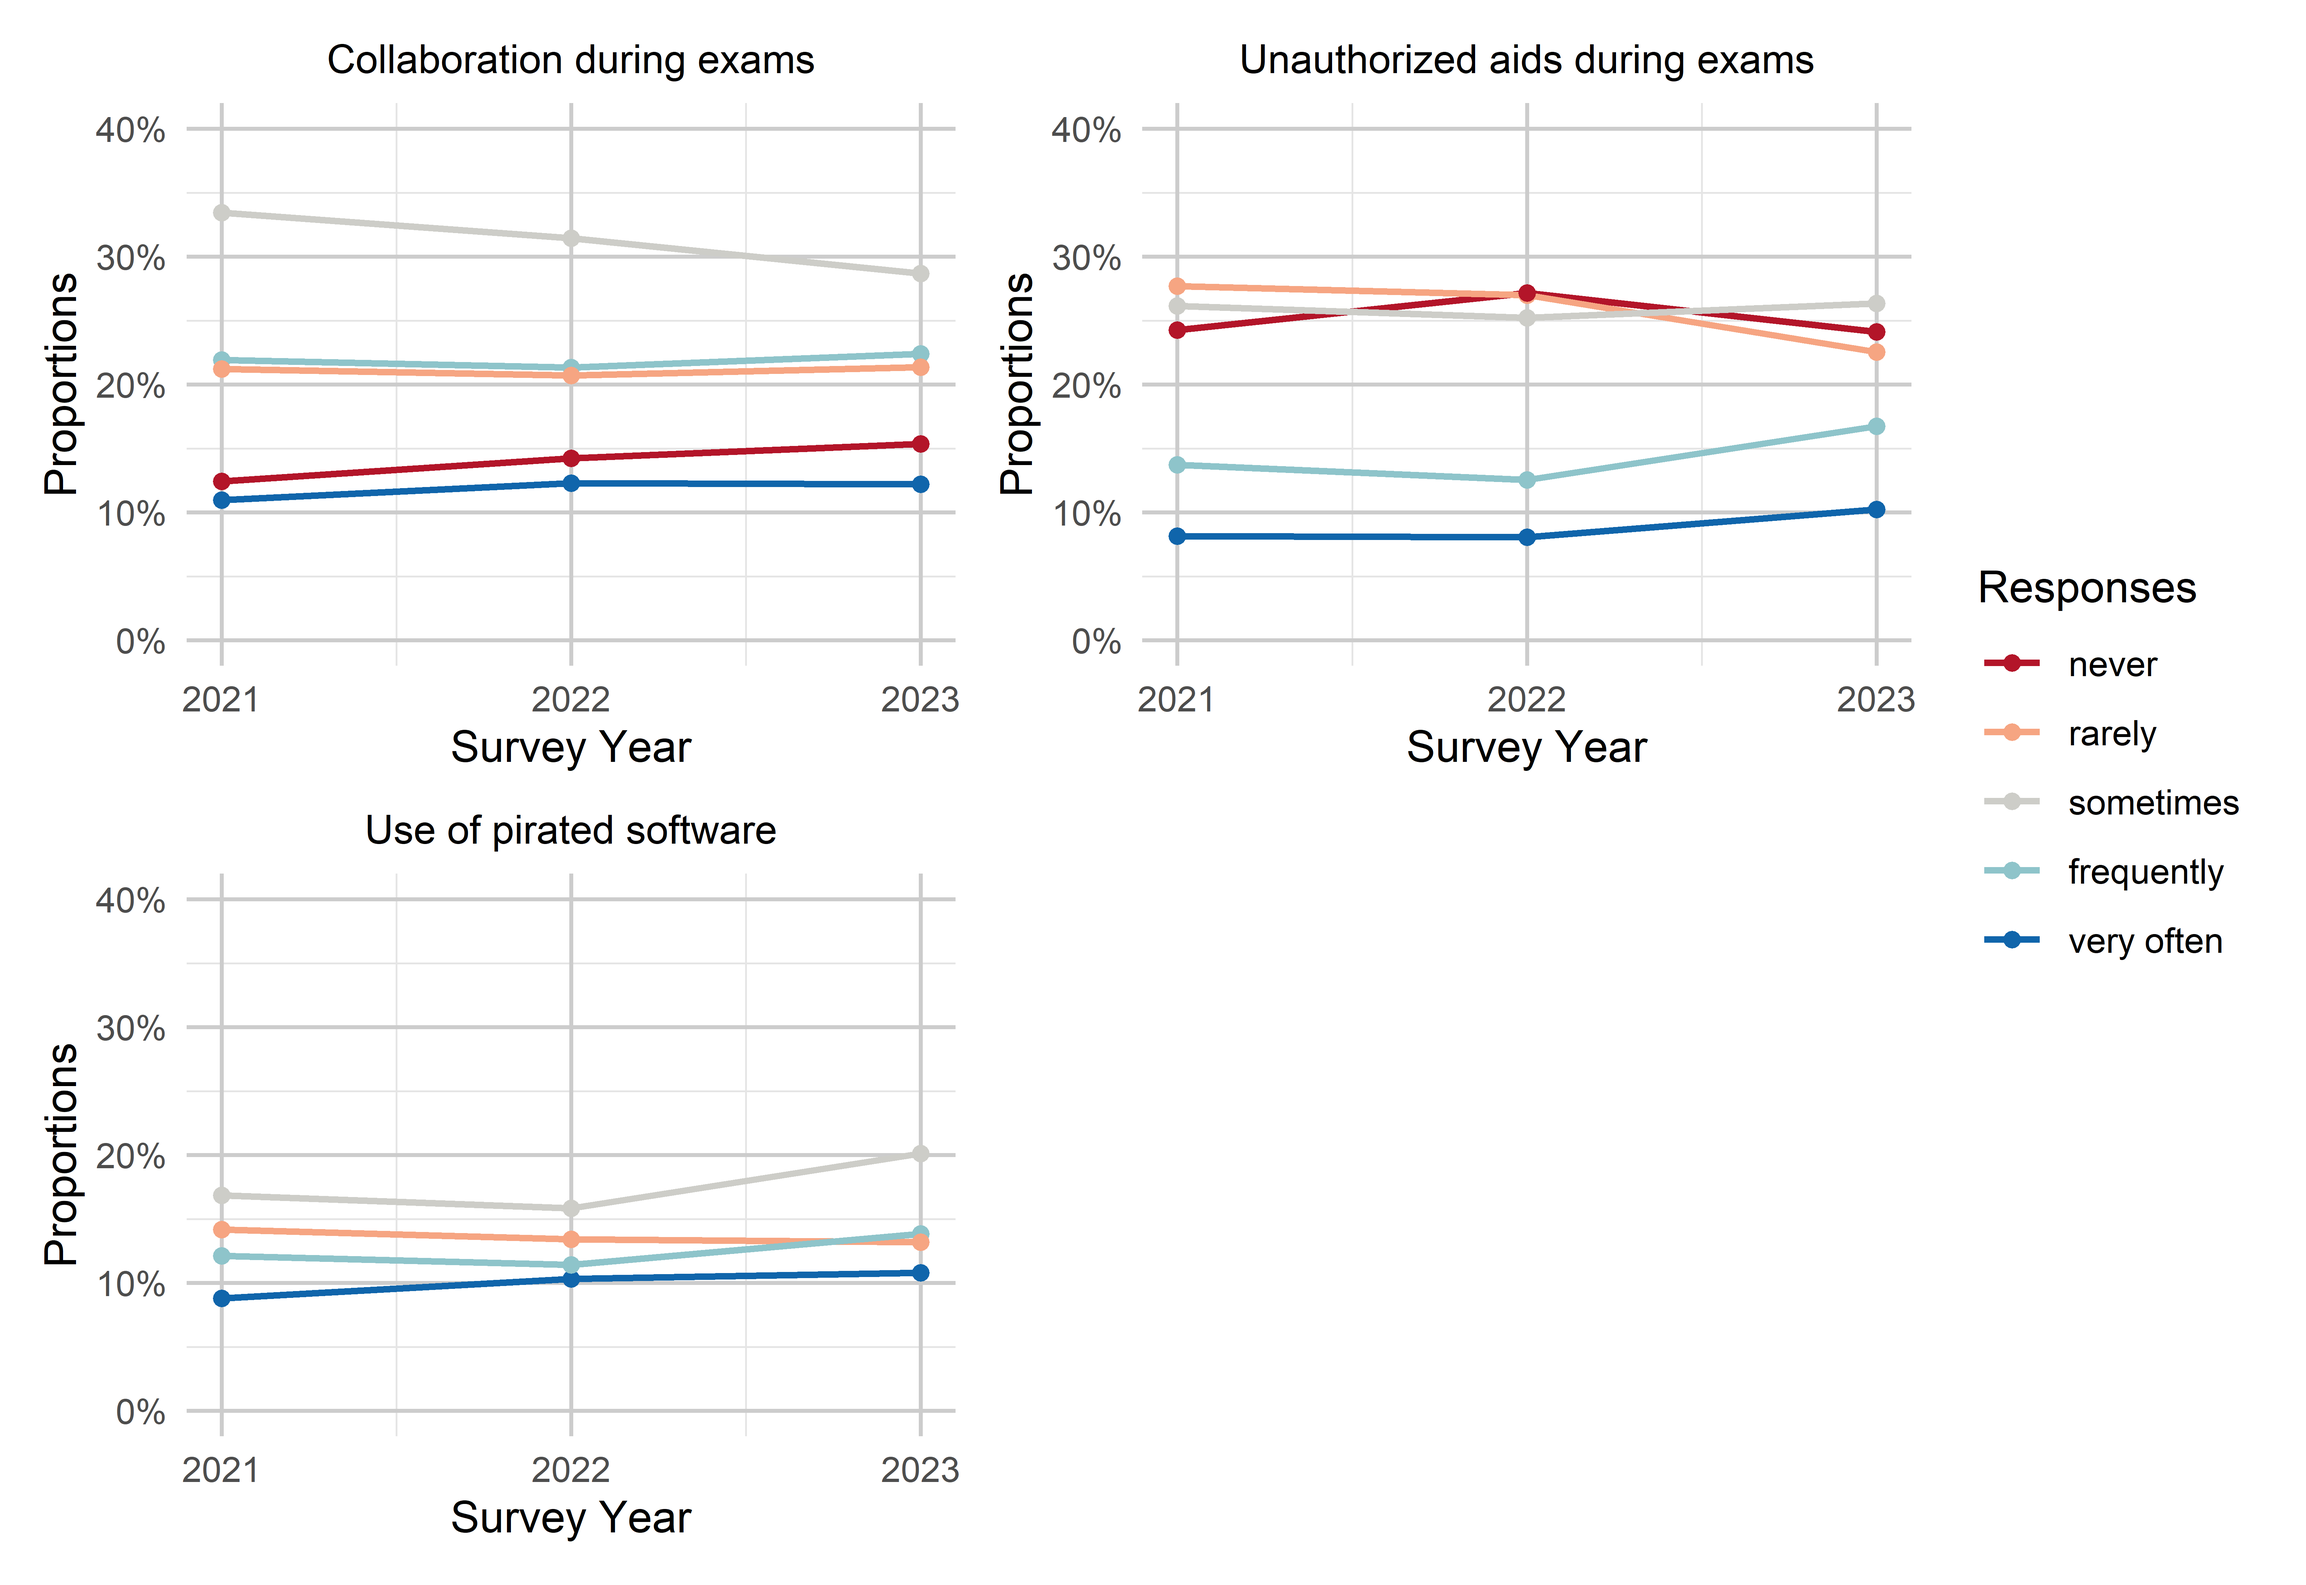
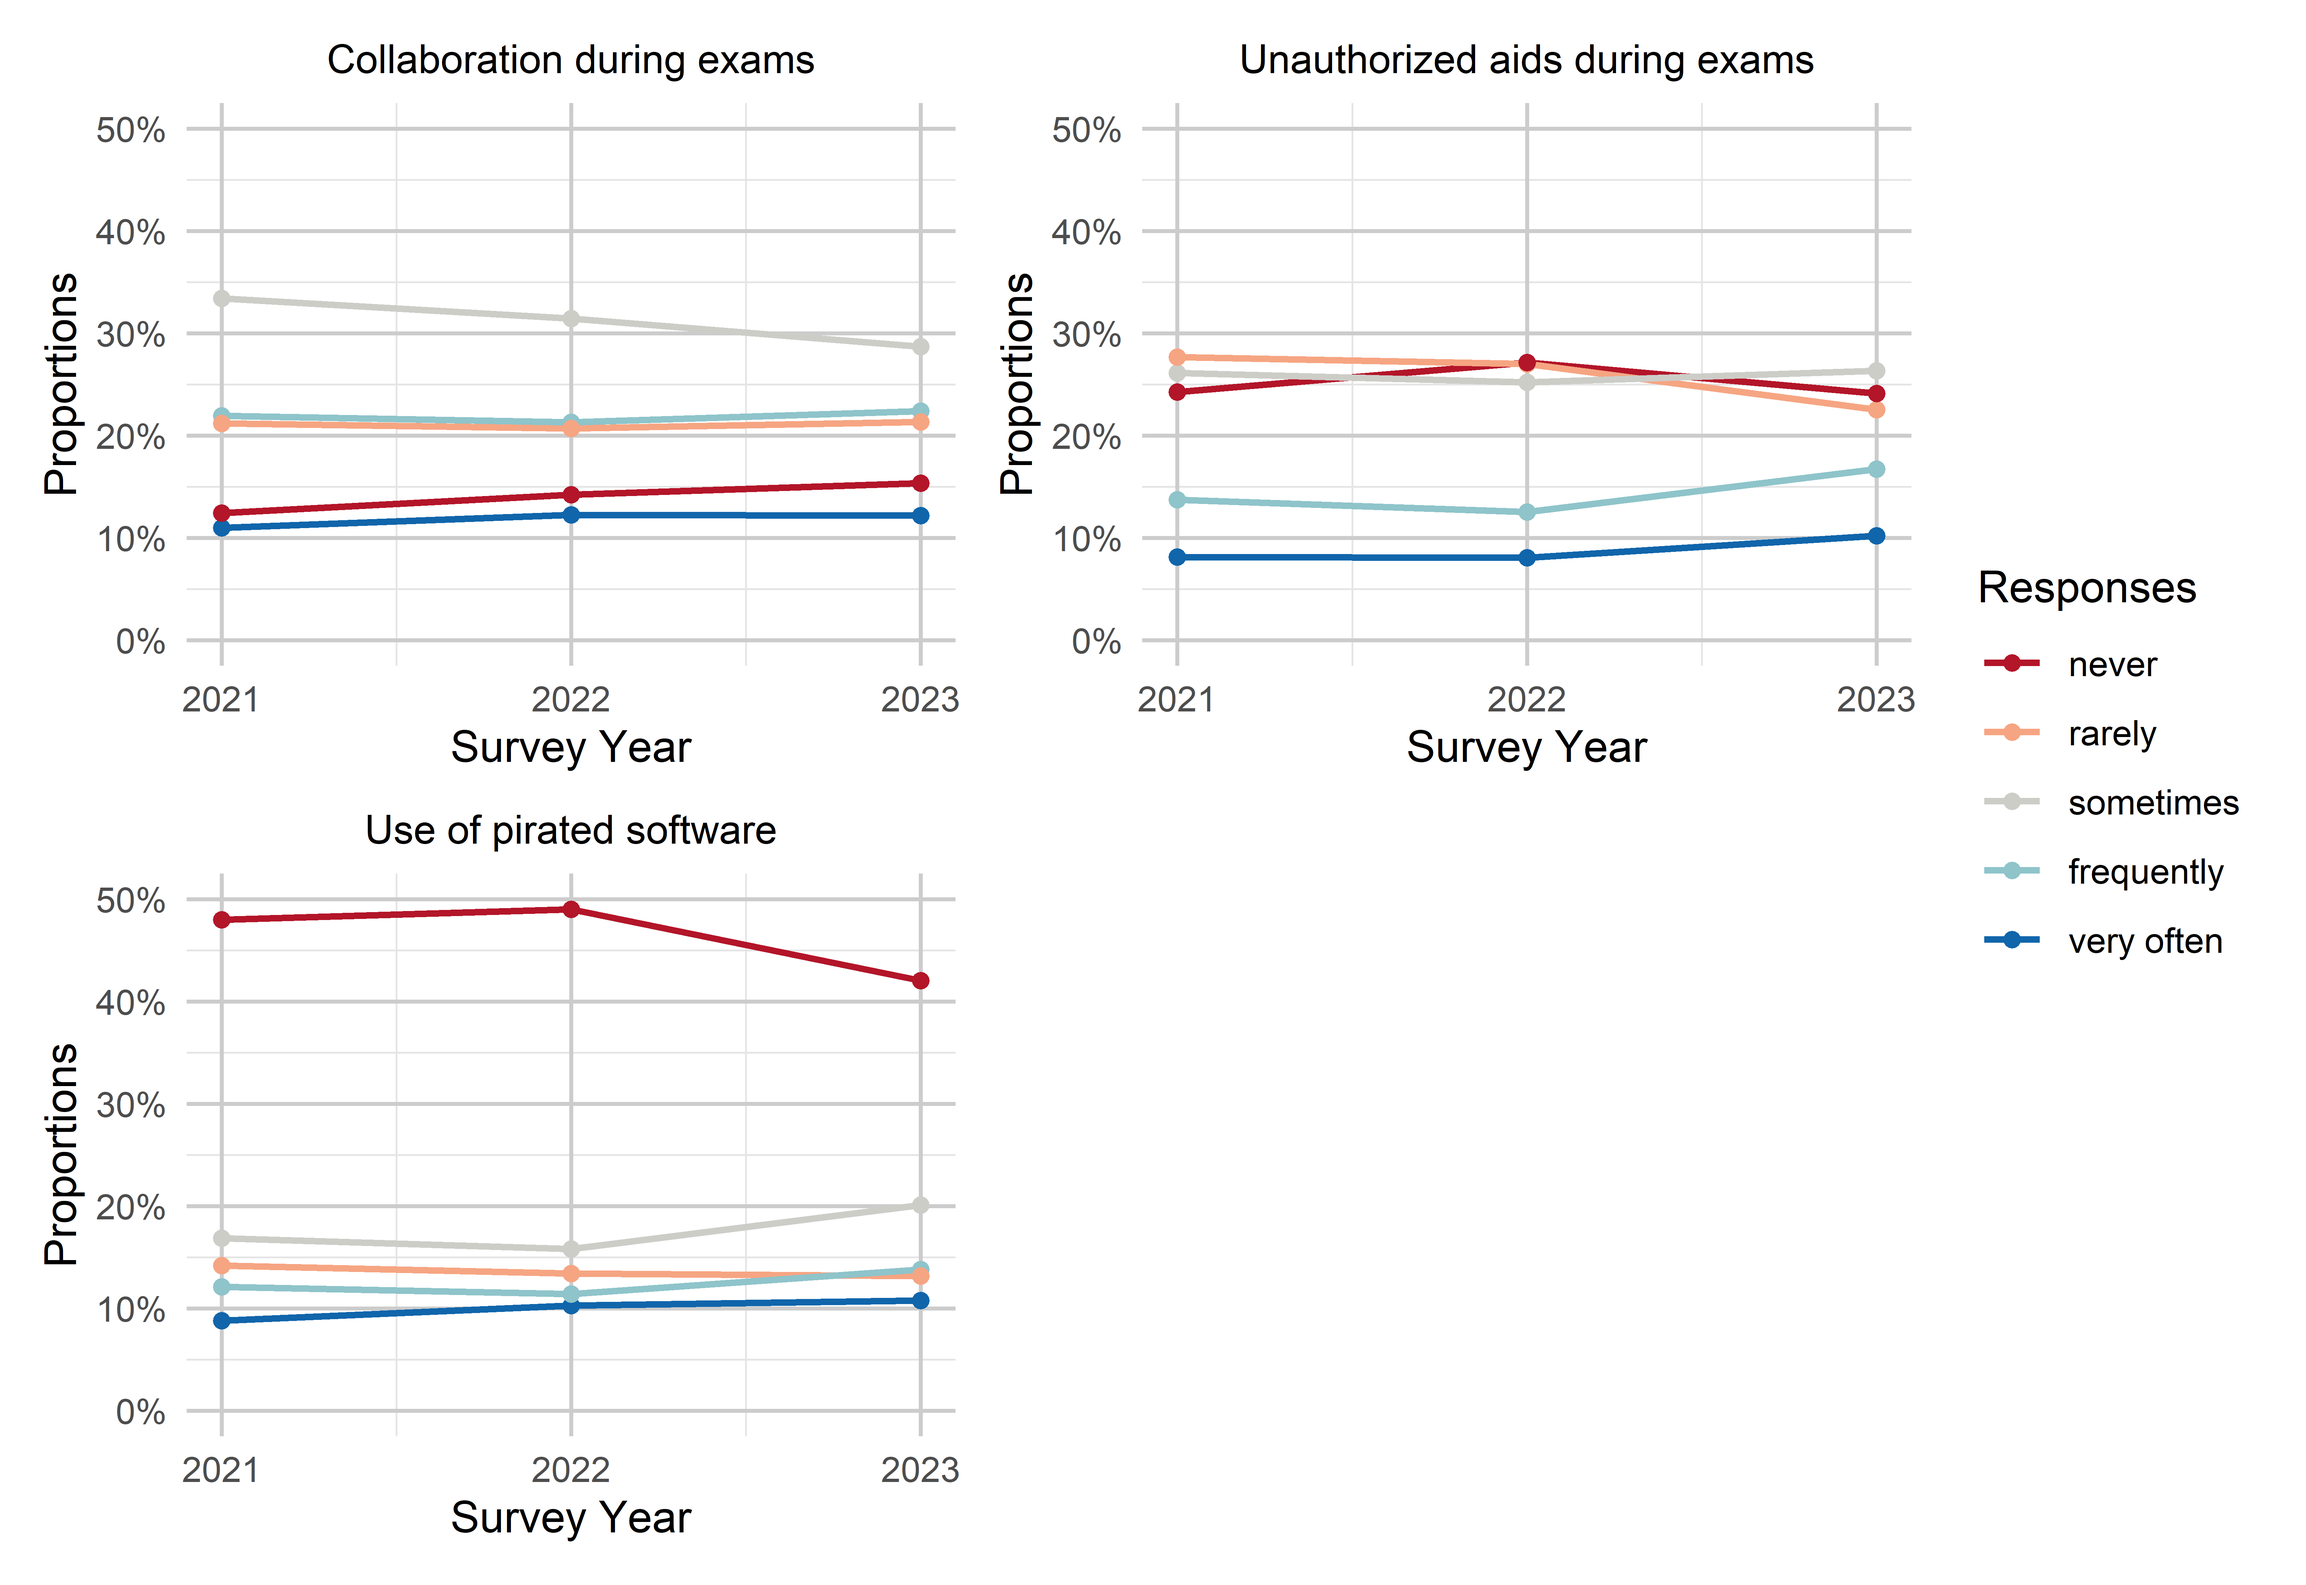
Adapt y axis ranges for some figures

diff --git a/analysis_notebooks/survey_analysis.html b/analysis_notebooks/survey_analysis.html
@@ -544,7 +544,7 @@ pre > code.sourceCode > span > a:first-child::before { text-decoration: underlin
 <div class="sourceCode cell-code" id="cb16"><pre class="sourceCode r code-with-copy"><code class="sourceCode r"><span id="cb16-1"><a href="#cb16-1" aria-hidden="true" tabindex="-1"></a>plots <span class="ot">&lt;-</span> <span class="fu">list</span>()</span>
 <span id="cb16-2"><a href="#cb16-2" aria-hidden="true" tabindex="-1"></a></span>
 <span id="cb16-3"><a href="#cb16-3" aria-hidden="true" tabindex="-1"></a><span class="cf">for</span> (q <span class="cf">in</span> raif) {</span>
-<span id="cb16-4"><a href="#cb16-4" aria-hidden="true" tabindex="-1"></a>  plot <span class="ot">&lt;-</span> <span class="fu">plot_frequency_line</span>(df, <span class="at">question =</span> q, <span class="at">legend =</span> <span class="cn">TRUE</span>, <span class="at">ylim =</span> <span class="dv">50</span>)</span>
+<span id="cb16-4"><a href="#cb16-4" aria-hidden="true" tabindex="-1"></a>  plot <span class="ot">&lt;-</span> <span class="fu">plot_frequency_line</span>(df, <span class="at">question =</span> q, <span class="at">legend =</span> <span class="cn">TRUE</span>, <span class="at">ylim =</span> <span class="dv">70</span>)</span>
 <span id="cb16-5"><a href="#cb16-5" aria-hidden="true" tabindex="-1"></a>  plots[[q]] <span class="ot">&lt;-</span> plot</span>
 <span id="cb16-6"><a href="#cb16-6" aria-hidden="true" tabindex="-1"></a>}</span>
 <span id="cb16-7"><a href="#cb16-7" aria-hidden="true" tabindex="-1"></a></span>
@@ -579,7 +579,7 @@ pre > code.sourceCode > span > a:first-child::before { text-decoration: underlin
 <div class="sourceCode cell-code" id="cb18"><pre class="sourceCode r code-with-copy"><code class="sourceCode r"><span id="cb18-1"><a href="#cb18-1" aria-hidden="true" tabindex="-1"></a>plots <span class="ot">&lt;-</span> <span class="fu">list</span>()</span>
 <span id="cb18-2"><a href="#cb18-2" aria-hidden="true" tabindex="-1"></a></span>
 <span id="cb18-3"><a href="#cb18-3" aria-hidden="true" tabindex="-1"></a><span class="cf">for</span> (q <span class="cf">in</span> eduf) {</span>
-<span id="cb18-4"><a href="#cb18-4" aria-hidden="true" tabindex="-1"></a>  plot <span class="ot">&lt;-</span> <span class="fu">plot_frequency_line</span>(df, <span class="at">question =</span> q, <span class="at">legend =</span> <span class="cn">TRUE</span>, <span class="at">ylim =</span> <span class="dv">40</span>)</span>
+<span id="cb18-4"><a href="#cb18-4" aria-hidden="true" tabindex="-1"></a>  plot <span class="ot">&lt;-</span> <span class="fu">plot_frequency_line</span>(df, <span class="at">question =</span> q, <span class="at">legend =</span> <span class="cn">TRUE</span>, <span class="at">ylim =</span> <span class="dv">50</span>)</span>
 <span id="cb18-5"><a href="#cb18-5" aria-hidden="true" tabindex="-1"></a>  plots[[q]] <span class="ot">&lt;-</span> plot</span>
 <span id="cb18-6"><a href="#cb18-6" aria-hidden="true" tabindex="-1"></a>}</span>
 <span id="cb18-7"><a href="#cb18-7" aria-hidden="true" tabindex="-1"></a></span>
@@ -596,7 +596,7 @@ pre > code.sourceCode > span > a:first-child::before { text-decoration: underlin
 <div class="sourceCode cell-code" id="cb19"><pre class="sourceCode r code-with-copy"><code class="sourceCode r"><span id="cb19-1"><a href="#cb19-1" aria-hidden="true" tabindex="-1"></a>plots <span class="ot">&lt;-</span> <span class="fu">list</span>()</span>
 <span id="cb19-2"><a href="#cb19-2" aria-hidden="true" tabindex="-1"></a></span>
 <span id="cb19-3"><a href="#cb19-3" aria-hidden="true" tabindex="-1"></a><span class="cf">for</span> (q <span class="cf">in</span> adm) {</span>
-<span id="cb19-4"><a href="#cb19-4" aria-hidden="true" tabindex="-1"></a>  plot <span class="ot">&lt;-</span> <span class="fu">plot_frequency_line</span>(df, <span class="at">question =</span> q, <span class="at">legend =</span> <span class="cn">TRUE</span>)</span>
+<span id="cb19-4"><a href="#cb19-4" aria-hidden="true" tabindex="-1"></a>  plot <span class="ot">&lt;-</span> <span class="fu">plot_frequency_line</span>(df, <span class="at">question =</span> q, <span class="at">legend =</span> <span class="cn">TRUE</span>, <span class="at">ylim =</span> <span class="dv">75</span>)</span>
 <span id="cb19-5"><a href="#cb19-5" aria-hidden="true" tabindex="-1"></a>  plots[[q]] <span class="ot">&lt;-</span> plot</span>
 <span id="cb19-6"><a href="#cb19-6" aria-hidden="true" tabindex="-1"></a>}</span>
 <span id="cb19-7"><a href="#cb19-7" aria-hidden="true" tabindex="-1"></a></span>
